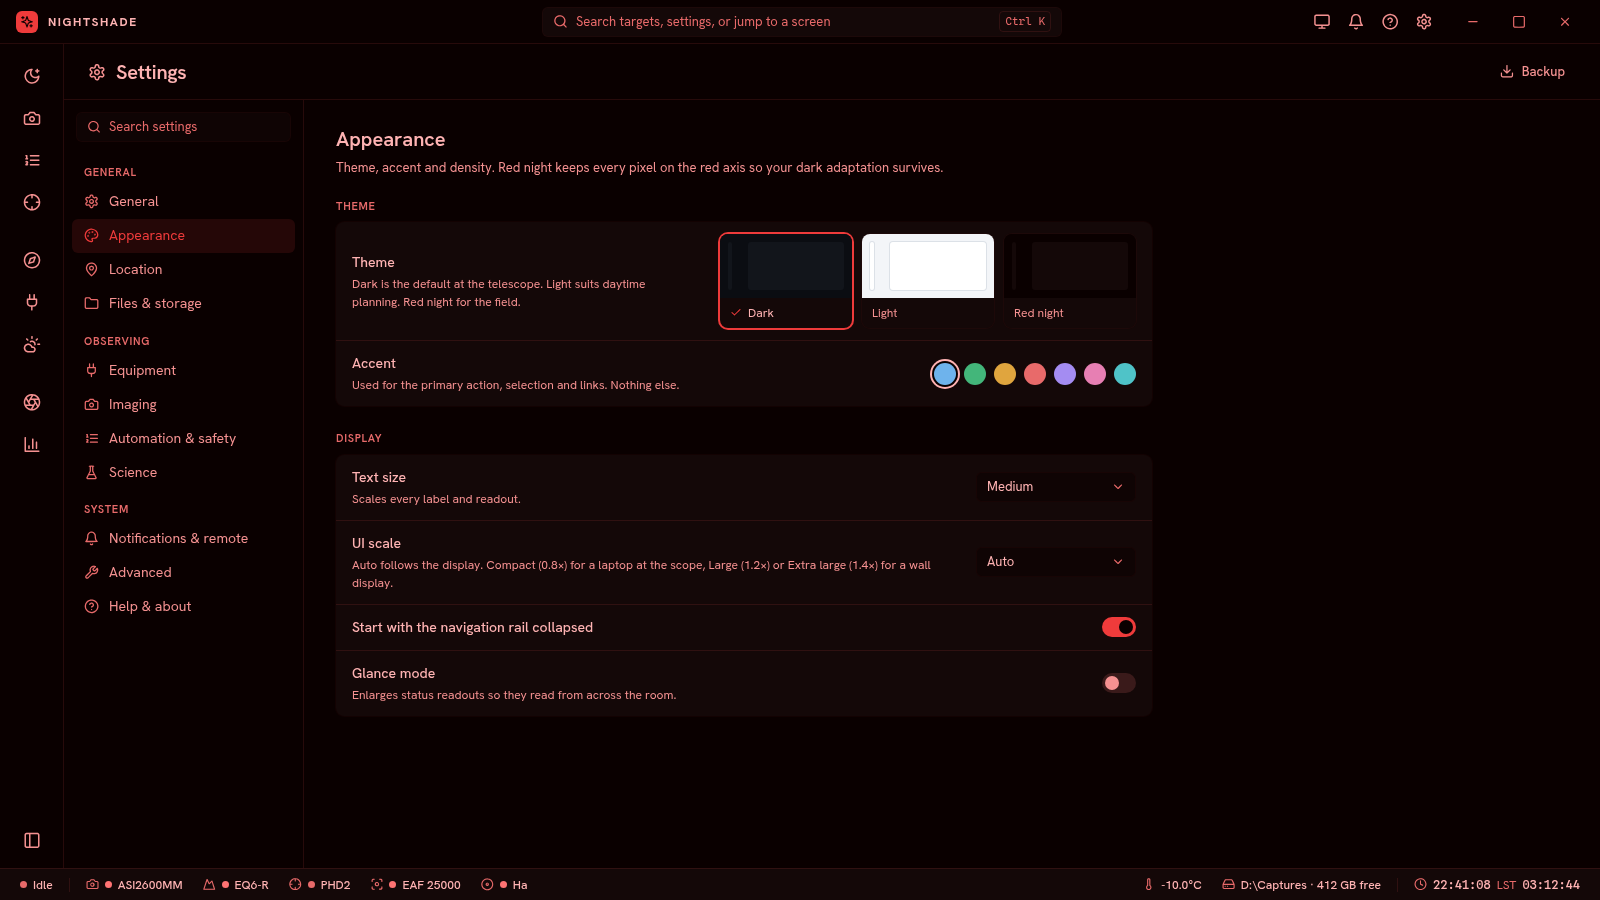
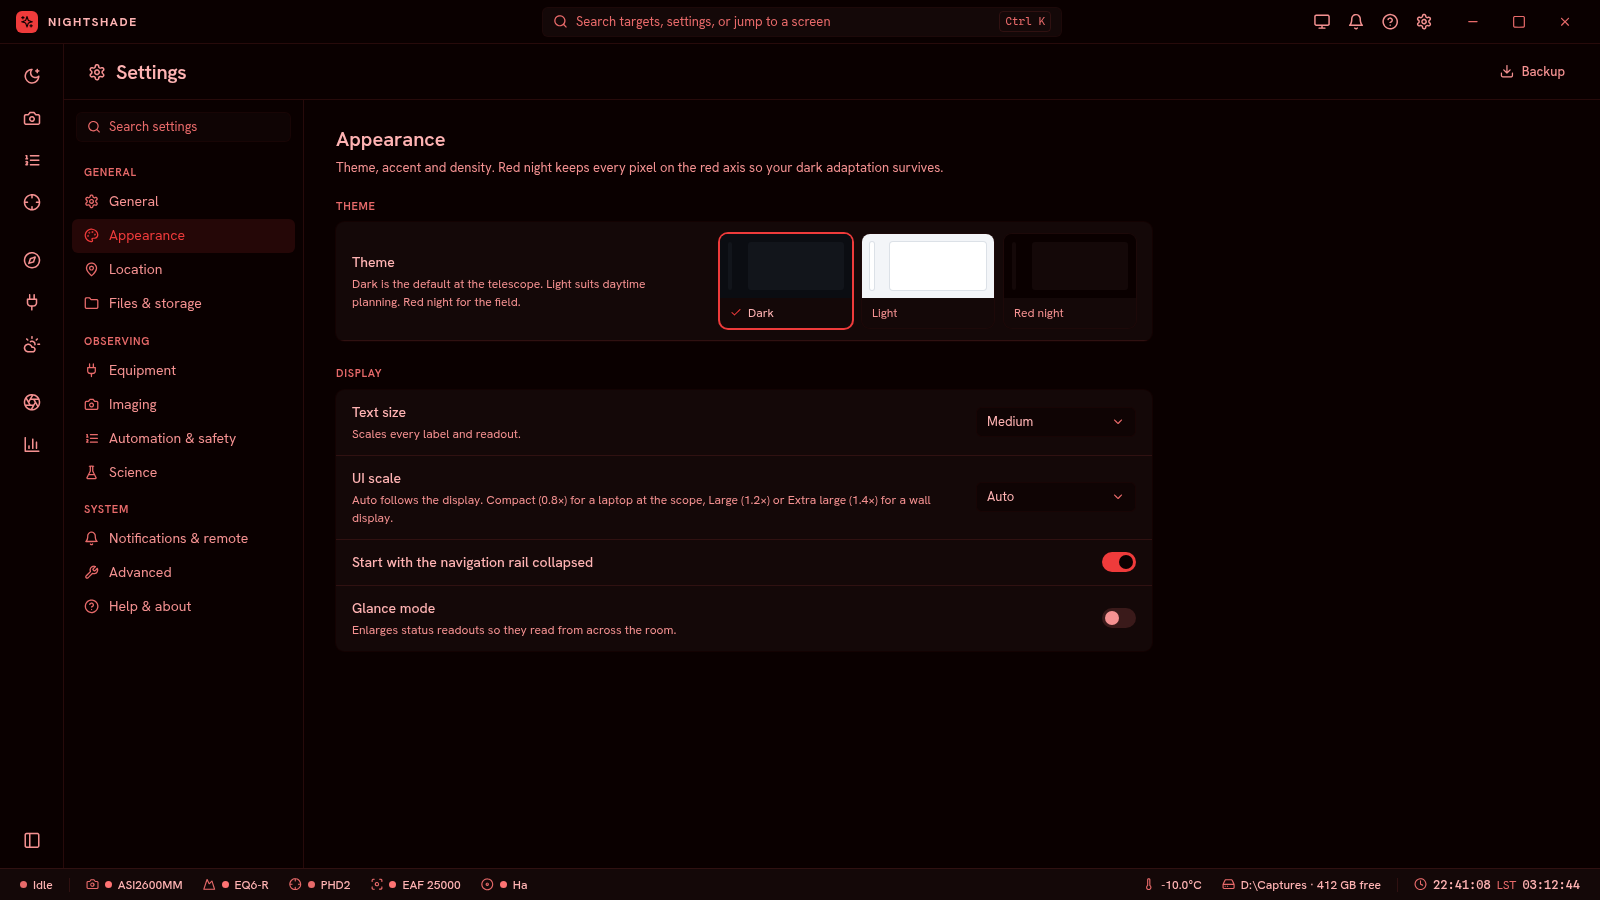
docs(overhaul): settings mockup shows per-theme accent swatches and none in red night

diff --git a/docs/design/overhaul/mockups/settings.html b/docs/design/overhaul/mockups/settings.html
@@ -28,6 +28,10 @@
   .srow .field { width: 160px; height: 30px; }
   .swatches { display: flex; gap: 8px; }
   .swatches span { width: 22px; height: 22px; border-radius: 50%; }
+  .swatches-light { display: none; }
+  :root[data-theme="light"] .swatches-dark { display: none; }
+  :root[data-theme="light"] .swatches-light { display: flex; }
+  :root[data-theme="redNight"] .accent-row { display: none; }
   .swatches span.sel { box-shadow: 0 0 0 2px var(--bg), 0 0 0 4px var(--textPrimary); }
   .themes { display: flex; gap: 10px; }
   .themes .th { width: 132px; border-radius: 8px; overflow: hidden; box-shadow: 0 0 0 1px var(--panel-outline); font-size: 12px; color: var(--textSecondary); }
@@ -75,8 +79,9 @@
                   <div class="th"><div class="pv" style="background:#F3F5F8"><i style="background:#fff;box-shadow:0 0 0 1px #DCE1E7"></i><i style="background:#fff;box-shadow:0 0 0 1px #DCE1E7"></i></div><div class="lab">Light</div></div>
                   <div class="th"><div class="pv" style="background:#0A0000"><i style="background:#140808"></i><i style="background:#140808"></i></div><div class="lab">Red night</div></div>
                 </div></div>
-              <div class="srow"><div><div class="t">Accent</div><div class="d">Used for the primary action, selection and links. Nothing else.</div></div>
-                <div class="swatches"><span class="sel" style="background:#6EB3EC"></span><span style="background:#43B67A"></span><span style="background:#E0A53E"></span><span style="background:#E86A6A"></span><span style="background:#A48CF2"></span><span style="background:#E77FB3"></span><span style="background:#4FC3C8"></span></div></div>
+              <!-- Accent row: per-theme swatch set (03 §1.4); hidden in red night, which has no accent choice. -->
+              <div class="srow accent-row"><div><div class="t">Accent</div><div class="d">Used for the primary action, selection and links. Nothing else.</div></div>
+                <div class="swatches swatches-dark"><span class="sel" style="background:#6EB3EC"></span><span style="background:#43B67A"></span><span style="background:#E0A53E"></span><span style="background:#E86A6A"></span><span style="background:#A48CF2"></span><span style="background:#E77FB3"></span><span style="background:#4FC3C8"></span></div><div class="swatches swatches-light"><span class="sel" style="background:#256F9E"></span><span style="background:#277549"></span><span style="background:#8F5D14"></span><span style="background:#BC3838"></span><span style="background:#6A4FD1"></span><span style="background:#B03A7A"></span><span style="background:#1B7278"></span></div></div>
             </div>
           </div>
           <div class="group">
